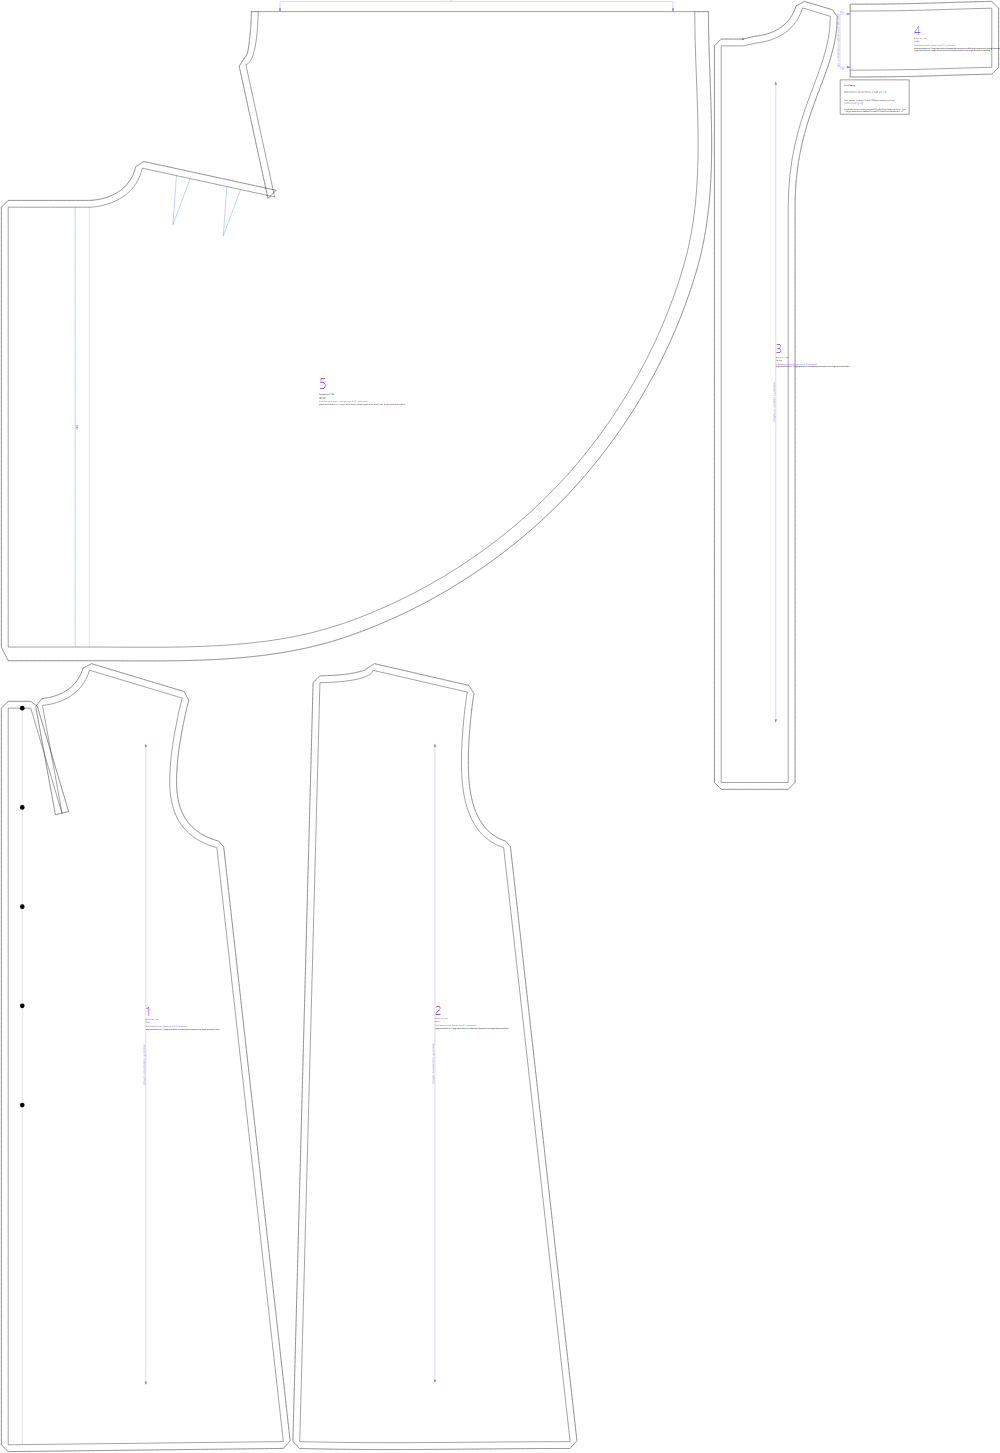
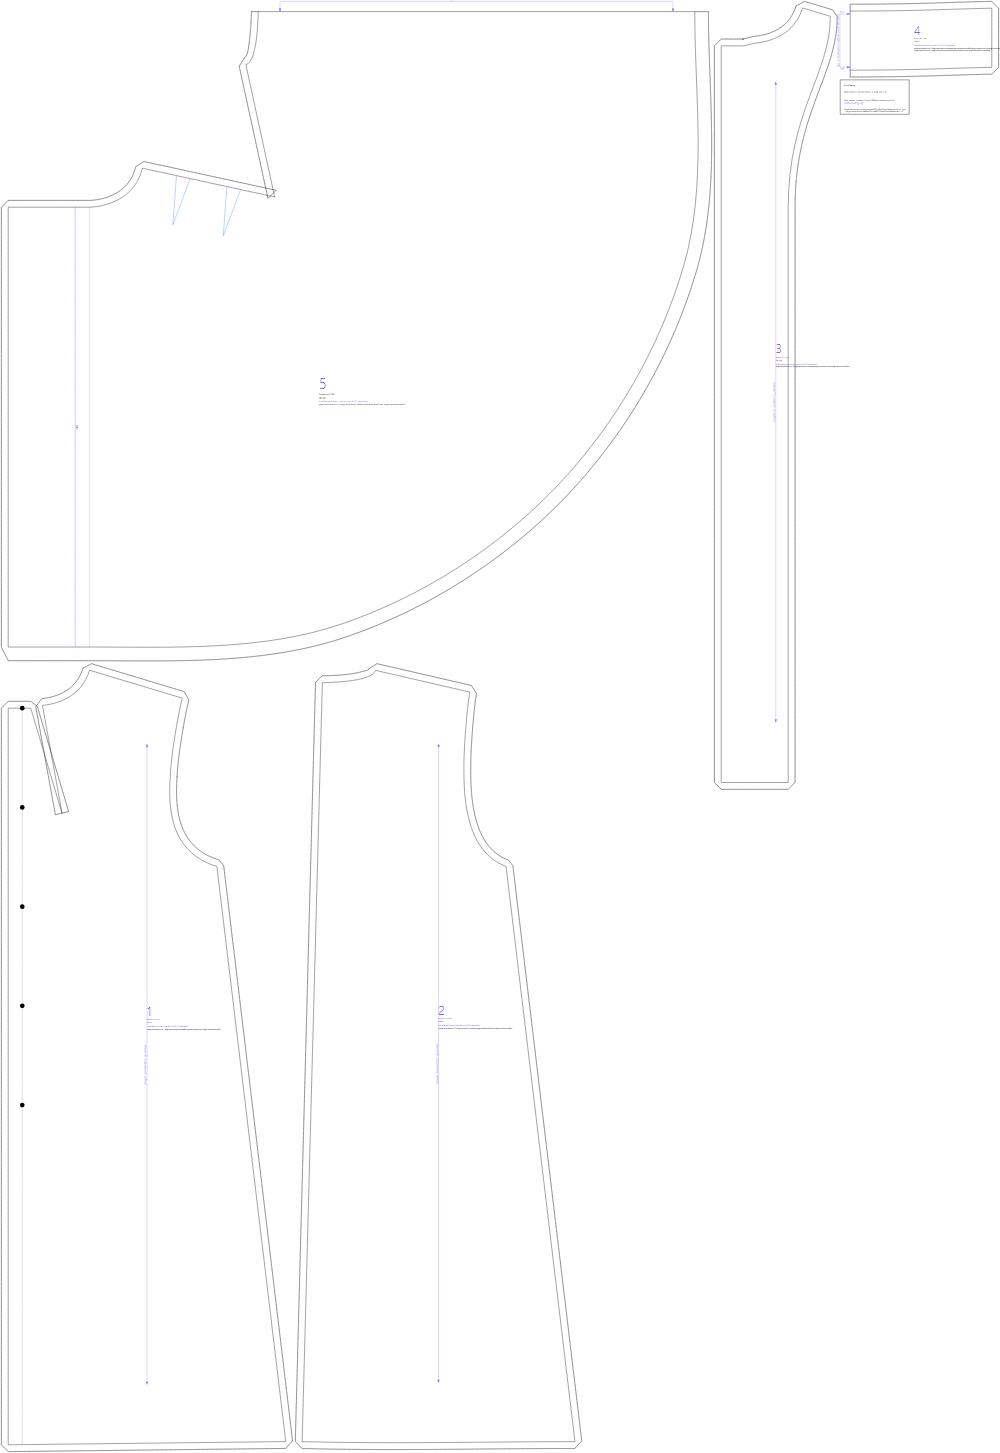
Lower Inverness coat armhole to Merz depth

diff --git a/designs/SPEC.md b/designs/SPEC.md
@@ -82,7 +82,7 @@ type's `if:` is an expression over options; when it is false the piece is left o
 | `body3Back` / `body3Front` | A three-piece body (back, side body, forepart) on Bent; `flare` (either): each seam edge out that much at the hem; a `lengthBelowWaist` above the seat line stops the body for `body3Skirt`; the back takes `vent: { length, width }`; the front takes `r` (a rounded front corner), `lapel: { breakY, rollOut, gorgeAt, width }` (a notched lapel), `toShoulder` (the facing runs round the neck to the shoulder, for a lining) and, per welt, `flap` (a flap this share of the mouth deep, into `coat.pockets` for a `flap` piece). | `lib/body3.mjs` |
 | `yokeSide` | A yoke garment's back or front, into the store. A design's options can add, on a bodice to the waist: `blouse`, `waistShaping`, and a kimono sleeve (`kimonoLength`, `kimonoAngle`, `kimonoDepth`). | `lib/yoke.mjs` |
 | `jacketBase` / `jacketLayout` | A princess-seamed jacket on Breanna: each side read in, then cut along its darts into panels, flared below the waist, with a lap, lapel and gorge. Optional: `underarm: { back, front, backSuppression, frontSuppression }` (an under-arm panel in place of the side seam, its seams leaving the armholes `back`/`front` (0-1) of the way in, taken in at the waist), `cb: { waist, hip }` (a shaped CB seam, in at the waist and at the seat line), `shawl: { width, lapel }` (a shawl collar cut in one with the front, in place of the lapel and collar), `rows` (double-breasted: two rows of buttons this far either side of CF, holes on the outer row; `boxLayout` takes it too). `closed` (no lapel: the front buttoned to the neck, the collar sewn round to the front edge; Merz's storm collar). `second: { at, suppression }` (with `underarm`): a second front seam from the side front's shoulder to the hem, splitting it into `middleFront` and `sideFront`. `backArmhole: { rise, chest }` (with `underarm`): the back seam leaves the armhole, not the shoulder, `rise` (0-1) of the way up to the shoulder point, `chest` x the back's waist width from the CB on the chest line. `waistSeam: { lapWaist, lapHip, pleatWaist, pleatHem, ventWaist, ventHem, spread }` (with `underarm`): every panel but the back stops at the waist, and their skirts are laid together as one `skirt` (and `skirtLining`); the lap narrows to `lapWaist` and widens to `lapHip`, with a pleat at the back seam, a CB vent, and `spread` more at the hem per skirt seam. `hemFlare`: each seam edge's width past its waist point at the hem, if more than the seat needs, every edge then `length` long so the hem rises at the seams. `cb: { waist: 0, hip: 0, flare: true }`: a CB seam flaring the same way, cut in pairs, the back lining too. `buttonBottom`: the last button this far below the waist. `frontSeamMin`: the front seam at least this far from CF at the waist, moved toward the side with the dart's width unchanged. | `lib/jacket.mjs` |
-| `boxLayout` | A box body on the same bases (`jacketBase` with `style: box`): back and front, side seams flared from the armholes, the bust dart pivoted into the front neck, lap, lapel, gorge. Optional: `patch: { <id>: { x, y, w, h, shape, topHem, flap } }`, patch pockets from CF and the waist (to `coat.pockets`, for the `pocket` and `flap` pieces), kept clear of the armhole, side seam and hem; `rows`, as `jacketLayout`'s. When the design's `lapelStyle` is `closed`, the front runs straight to the edge at the neck without a lapel. | `lib/jacket.mjs` |
+| `boxLayout` | A box body on the same bases (`jacketBase` with `style: box`): back and front, side seams flared from the armholes, the bust dart pivoted into the front neck, lap, lapel, gorge. Optional: `patch: { <id>: { x, y, w, h, shape, topHem, flap } }`, patch pockets from CF and the waist (to `coat.pockets`, for the `pocket` and `flap` pieces), kept clear of the armhole, side seam and hem; `rows`, as `jacketLayout`'s. When the design's `lapelStyle` is `closed`, the front runs straight to the edge at the neck without a lapel. `armholeDrop` lowers both armhole bottoms, retaining the shoulder points. | `lib/jacket.mjs` |
 | `jacketLayout`'s `kimono` | `{ length, hem, depth, angleBack, angleFront }`: the sleeve cut in one with the side back and side front, no armhole; the hem shared so the underarm seams match. Store: `jacket.kimono`. Drop the two-part sleeve pieces. | `lib/jacket.mjs` |
 | `capeBase`, `capeLayout` | A cape (`which`; `length`, `drop`, `gap`, `pivotLess`, `seamDrop`, `flare`, `lap`, `facing`): the block's neck and shoulder laid out as a quarter circle. Optional `dartWidth`, `dartGap`, `dartLength` mark two shoulder darts on a `whole` cape. Store: `cape.layout`, `cape.seams`, `coat.back.neck`, `coat.front.neck`. With the `cape` piece type (`which: front`, `back` or `whole`; `count`, `spacing` its buttons). | `lib/cape.mjs` |
 | `jacketCapeBase` | Copies `jacketBase`'s neck and shoulder to `cape.raw.*` (`which: front` or `back`) so `capeLayout` can add a separate shoulder cape above a jacket body. The optional `capeShoulderExtension` moves the cape tip beyond the coat shoulder. | `lib/cape.mjs` |

diff --git a/designs/inverness-coat/BRIEF.md b/designs/inverness-coat/BRIEF.md
@@ -10,11 +10,11 @@ Merz calls this a loose-fronted, tight-back, three-quarter Inverness with a turn
 
 ## How this draft is made
 
-The body reuses the Breanna-based women's box coat: separate shaped back, loose front with a neck dart, long flared side seams, facing, and button closure. The `closed` front option runs the top edge from the neck to the front edge without a lapel. The separate one-piece cape uses the same block's neck and shoulder, extended by `capeShoulderExtension` (5.6% of chest, 2 inches at 36 inches), and a circular hem. Two marked shoulder darts are each `capeDartWidth` 2.1% of chest (3/4 inch), with `capeDartGap` 5.6% (2 inches) between their mouths, and `capeDartLength` 7.3% (2 5/8 inches) to their tips. Its default length is 57% of the coat's neck-to-hem distance, estimated from the plate. The coat length is 66% of waist-to-floor below the waist, also estimated from the plate. The collar width is 24% of neck, about 3 1/4 inches at the reference size; spring is 2% of its seam length, about 1/4 inch. The 5 buttons and 16% chest ease are our choices.
+The body reuses the Breanna-based women's box coat: separate shaped back, loose front with a neck dart, long flared side seams, facing, and button closure. The `closed` front option runs the top edge from the neck to the front edge without a lapel. `armholeDrop` lowers both armhole bottoms by 2.8% of chest, one inch at 36 inches, while keeping the shoulder points fixed. The separate one-piece cape uses the same block's neck and shoulder, extended by `capeShoulderExtension` (5.6% of chest, 2 inches at 36 inches), and a circular hem. Two marked shoulder darts are each `capeDartWidth` 2.1% of chest (3/4 inch), with `capeDartGap` 5.6% (2 inches) between their mouths, and `capeDartLength` 7.3% (2 5/8 inches) to their tips. Its default length is 57% of the coat's neck-to-hem distance, estimated from the plate. The coat length is 66% of waist-to-floor below the waist, also estimated from the plate. The collar width is 24% of neck, about 3 1/4 inches at the reference size; spring is 2% of its seam length, about 1/4 inch. The 5 buttons and 16% chest ease are our choices.
 
 ## Differences and limits
 
-The body retains the box coat's side seam geometry. It does not transfer the shoulder as Merz instructs, lower the armhole by 1 inch, or reproduce his tighter waist and hip back divisions. The cape remains a circular approximation of Merz's sweep; its two darts are marked on the cut piece but do not reshape the outer edge after sewing. The shared collar has constant width and a simple outer spring, rather than Merz's separately dimensioned front and back heights. The two-piece sleeves and pockets of the parent are omitted: neither is on the Inverness plate. These differences need a muslin before fit claims.
+The body retains the box coat's side seam geometry. It does not transfer the shoulder as Merz instructs or reproduce his tighter waist and hip back divisions. The lowered armhole is a smooth deformation of Breanna's curve rather than Merz's point draft. The cape remains a circular approximation of Merz's sweep; its two darts are marked on the cut piece but do not reshape the outer edge after sewing. The shared collar has constant width and a simple outer spring, rather than Merz's separately dimensioned front and back heights. The two-piece sleeves and pockets of the parent are omitted: neither is on the Inverness plate. These differences need a muslin before fit claims.
 
 ## Pieces and sewing
 

diff --git a/BUILD_QUEUE.md b/BUILD_QUEUE.md
@@ -114,7 +114,7 @@ Priority 1 first: shirts, dresses and women's garments are the thinnest part of 
 | 28 | `painters-jacket` | Painter's jacket: knee length, three patch pockets | Vincent 1890, p. 35 | `barbers-coat` | D | As built: on `barbers-coat`, with five buttons and separate button cuffs; pocket and collar geometry approximate Vincent's plate | done (painters-jacket) |
 | 29 | `aprons` | Work aprons (carpenter's, butcher's, barman's…) | Vincent 1890, pp. 39–40 | — | G | As built: one flat-cut pattern with eight selectable diagram styles, scaled from the fixed adult plate dimensions | done (aprons) |
 | 30 | `reefer` | Boys' reefer | Simons 1922, Diagram 23, pp. 74–75 | `peacoat` | D | As built: double-breasted outline on the peacoat, with shorter regular collar and two pairs of shallow welts; the side-seam flare is not modelled | done (reefer) |
-| 31 | `inverness-coat` | Women's Inverness coat | Merz 1911, Diagram XXIV, pp. 58–59 | `womens-box-coat` + cape | E | As built: long loose box body under a separate one-piece shoulder cape, closed front and turn collar; two marked cape darts; the lowered armhole remains approximated | done (inverness-coat) |
+| 31 | `inverness-coat` | Women's Inverness coat | Merz 1911, Diagram XXIV, pp. 58–59 | `womens-box-coat` + cape | E | As built: long loose box body under a separate one-piece shoulder cape, closed front and turn collar; two marked cape darts and a 1-inch lowered armhole; the transferred shoulder and tight back remain approximated | done (inverness-coat) |
 
 ### Blocked
 | Item | Needs |
